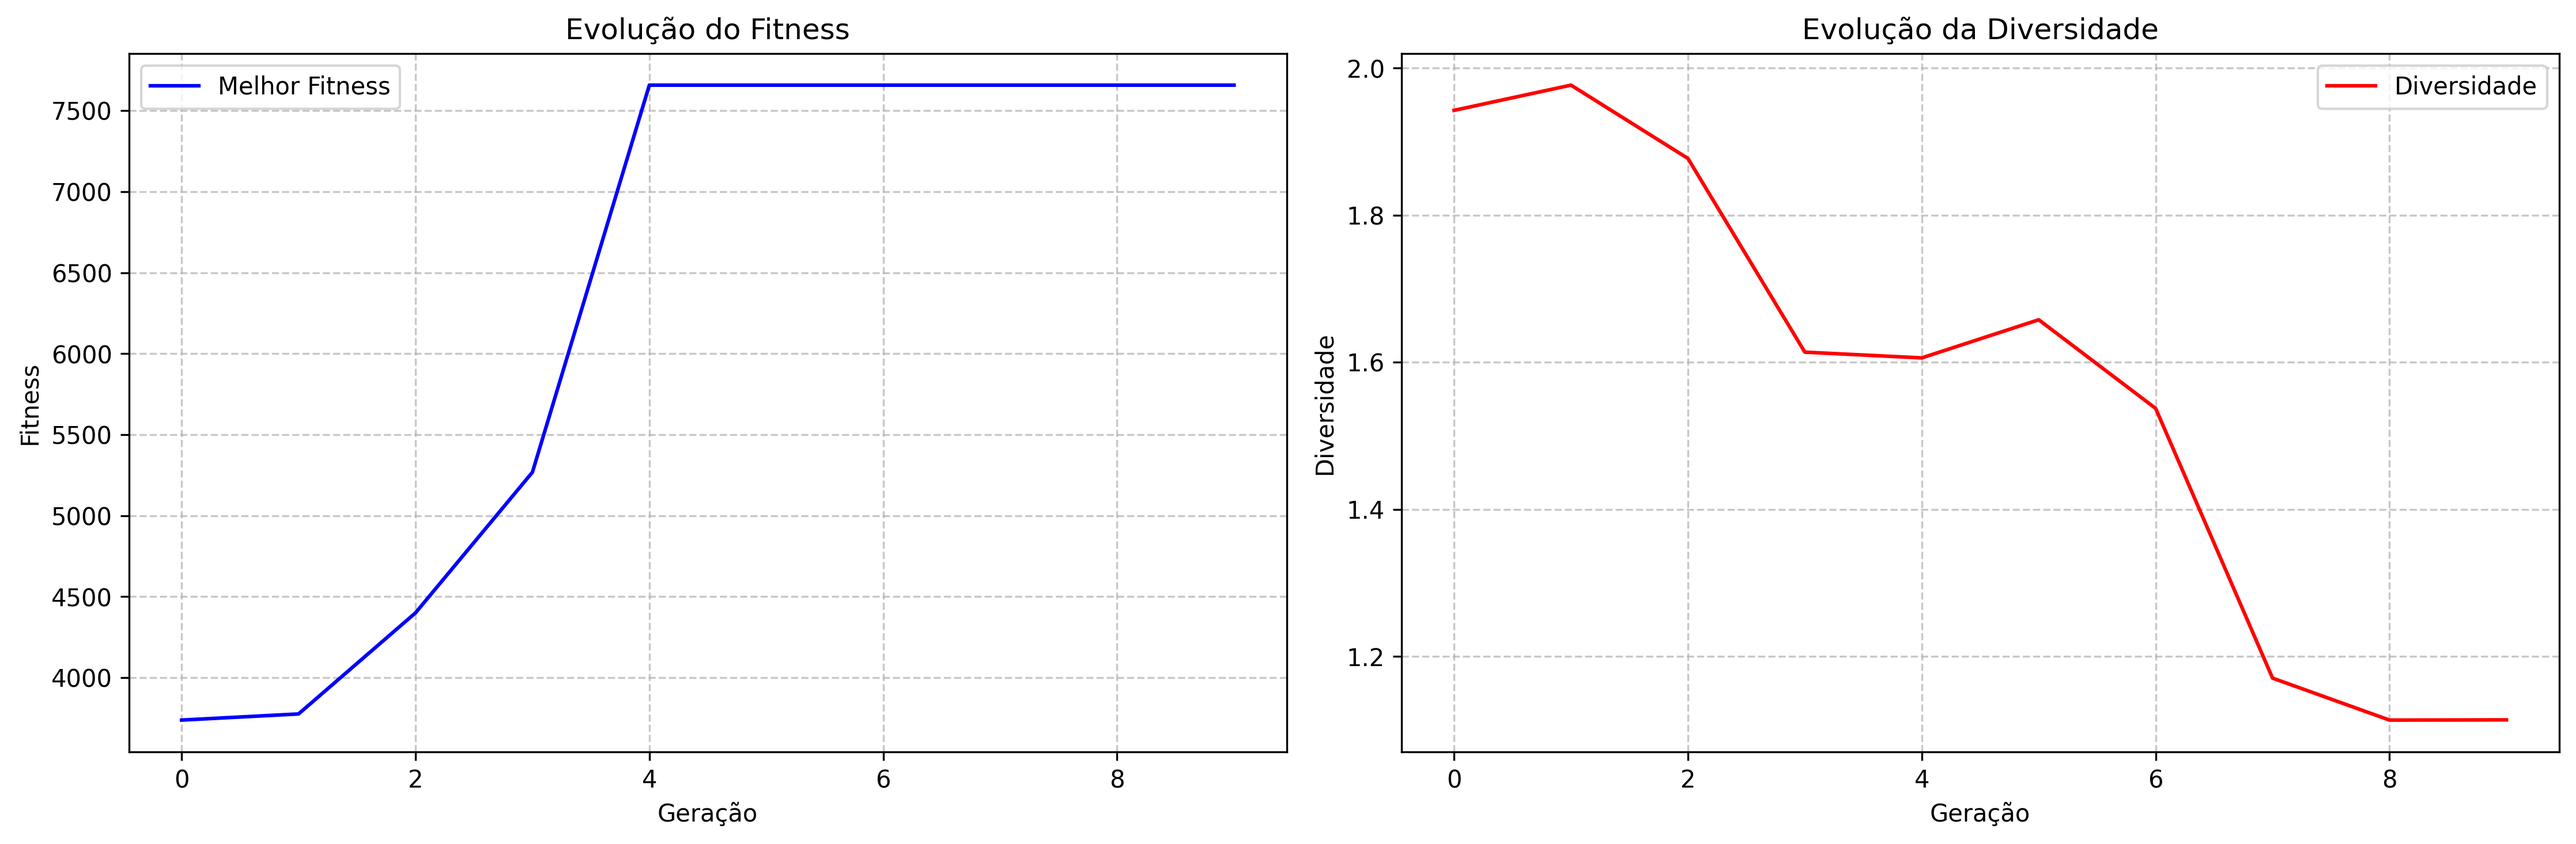
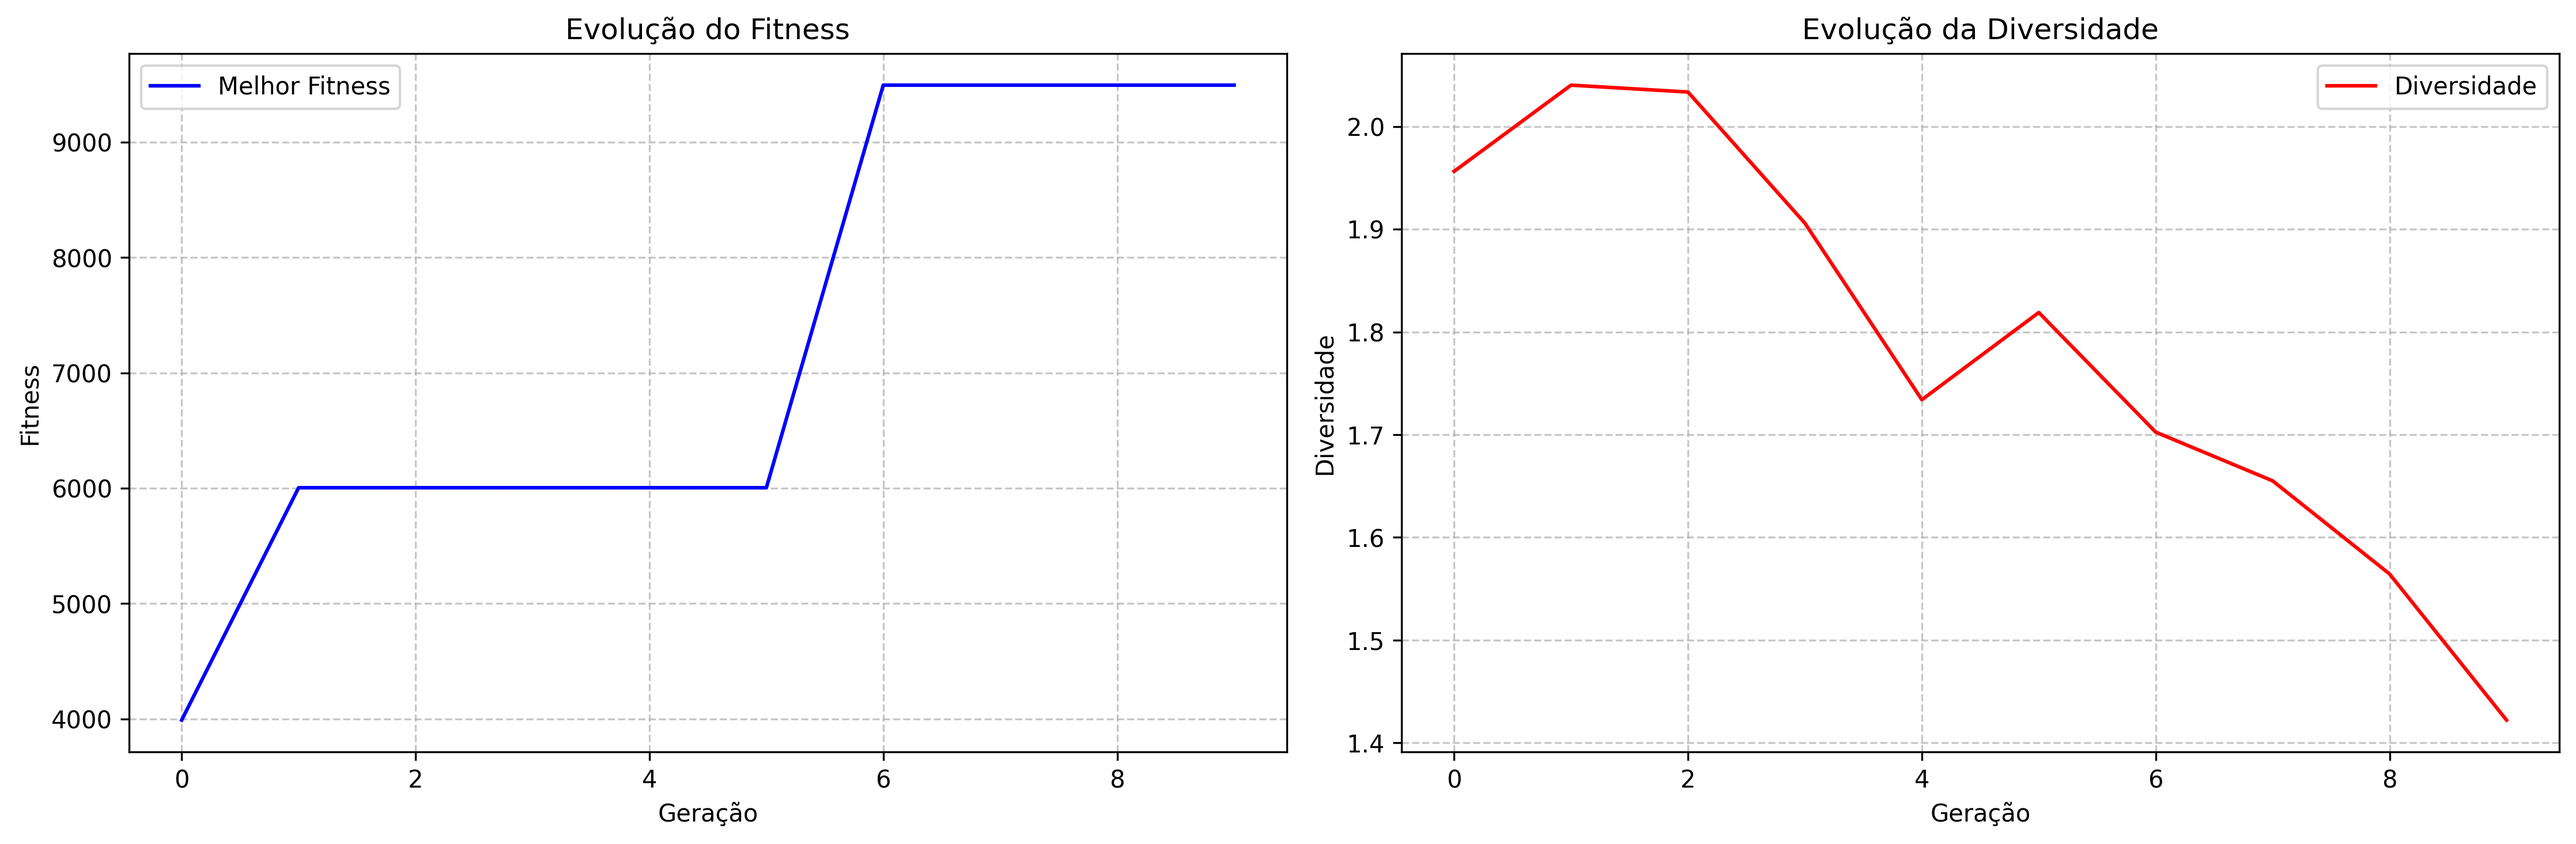
correção de bug elementos gerados encima de outros

diff --git a/robo_exercicio.py b/robo_exercicio.py
@@ -16,42 +16,99 @@ class Ambiente:
     def __init__(self, largura=800, altura=600, num_obstaculos=5, num_recursos=5):
         self.largura = largura
         self.altura = altura
-        self.obstaculos = self.gerar_obstaculos(num_obstaculos)
-        self.recursos = self.gerar_recursos(num_recursos)
+        self.obstaculos = []  # Inicializa lista vazia
+        self.recursos = []    # Inicializa lista vazia
         self.tempo = 0
         self.max_tempo = 1000  # Tempo máximo de simulação
-        self.meta = self.gerar_meta()  # Adicionando a meta
         self.meta_atingida = False  # Flag para controlar se a meta foi atingida
+        
+        # Agora gera os elementos na ordem correta
+        self.obstaculos = self.gerar_obstaculos(num_obstaculos)
+        self.recursos = self.gerar_recursos(num_recursos)
+        self.meta = self.gerar_meta()  # Adicionando a meta
+    
+    def verificar_sobreposicao(self, x, y, raio=0, largura=0, altura=0):
+        """Verifica se uma posição está sobrepondo outros elementos"""
+        # Verificar sobreposição com obstáculos
+        for obstaculo in self.obstaculos:
+            if (x + raio > obstaculo['x'] and 
+                x - raio < obstaculo['x'] + obstaculo['largura'] and
+                y + raio > obstaculo['y'] and 
+                y - raio < obstaculo['y'] + obstaculo['altura']):
+                return True
+        
+        # Verificar sobreposição com recursos
+        for recurso in self.recursos:
+            dist = np.sqrt((x - recurso['x'])**2 + (y - recurso['y'])**2)
+            if dist < raio + 20:  # 20 é o raio mínimo entre elementos
+                return True
+        
+        # Verificar sobreposição com meta
+        if hasattr(self, 'meta'):
+            dist = np.sqrt((x - self.meta['x'])**2 + (y - self.meta['y'])**2)
+            if dist < raio + self.meta['raio'] + 20:
+                return True
+        
+        return False
     
     def gerar_obstaculos(self, num_obstaculos):
         obstaculos = []
+        max_tentativas = 100
+        
         for _ in range(num_obstaculos):
-            x = random.randint(50, self.largura - 50)
-            y = random.randint(50, self.altura - 50)
-            largura = random.randint(20, 100)
-            altura = random.randint(20, 100)
-            obstaculos.append({
-                'x': x,
-                'y': y,
-                'largura': largura,
-                'altura': altura
-            })
+            tentativas = 0
+            while tentativas < max_tentativas:
+                x = random.randint(50, self.largura - 50)
+                y = random.randint(50, self.altura - 50)
+                largura = random.randint(20, 100)
+                altura = random.randint(20, 100)
+                
+                # Verificar sobreposição com outros obstáculos
+                sobreposicao = False
+                for obstaculo in obstaculos:
+                    if (x + largura > obstaculo['x'] and 
+                        x < obstaculo['x'] + obstaculo['largura'] and
+                        y + altura > obstaculo['y'] and 
+                        y < obstaculo['y'] + obstaculo['altura']):
+                        sobreposicao = True
+                        break
+                
+                if not sobreposicao:
+                    obstaculos.append({
+                        'x': x,
+                        'y': y,
+                        'largura': largura,
+                        'altura': altura
+                    })
+                    break
+                
+                tentativas += 1
+        
         return obstaculos
     
     def gerar_recursos(self, num_recursos):
         recursos = []
+        max_tentativas = 100
+        
         for _ in range(num_recursos):
-            x = random.randint(20, self.largura - 20)
-            y = random.randint(20, self.altura - 20)
-            recursos.append({
-                'x': x,
-                'y': y,
-                'coletado': False
-            })
+            tentativas = 0
+            while tentativas < max_tentativas:
+                x = random.randint(20, self.largura - 20)
+                y = random.randint(20, self.altura - 20)
+                
+                if not self.verificar_sobreposicao(x, y, raio=20):
+                    recursos.append({
+                        'x': x,
+                        'y': y,
+                        'coletado': False
+                    })
+                    break
+                
+                tentativas += 1
+        
         return recursos
     
     def gerar_meta(self):
-        # Gerar a meta em uma posição segura, longe dos obstáculos
         max_tentativas = 100
         margem = 50  # Margem das bordas
         
@@ -59,19 +116,7 @@ class Ambiente:
             x = random.randint(margem, self.largura - margem)
             y = random.randint(margem, self.altura - margem)
             
-            # Verificar se a posição está longe o suficiente dos obstáculos
-            posicao_segura = True
-            for obstaculo in self.obstaculos:
-                # Calcular a distância até o obstáculo mais próximo
-                dist_x = max(obstaculo['x'] - x, 0, x - (obstaculo['x'] + obstaculo['largura']))
-                dist_y = max(obstaculo['y'] - y, 0, y - (obstaculo['y'] + obstaculo['altura']))
-                dist = np.sqrt(dist_x**2 + dist_y**2)
-                
-                if dist < 50:  # 50 pixels de margem extra
-                    posicao_segura = False
-                    break
-            
-            if posicao_segura:
+            if not self.verificar_sobreposicao(x, y, raio=30):
                 return {
                     'x': x,
                     'y': y,
